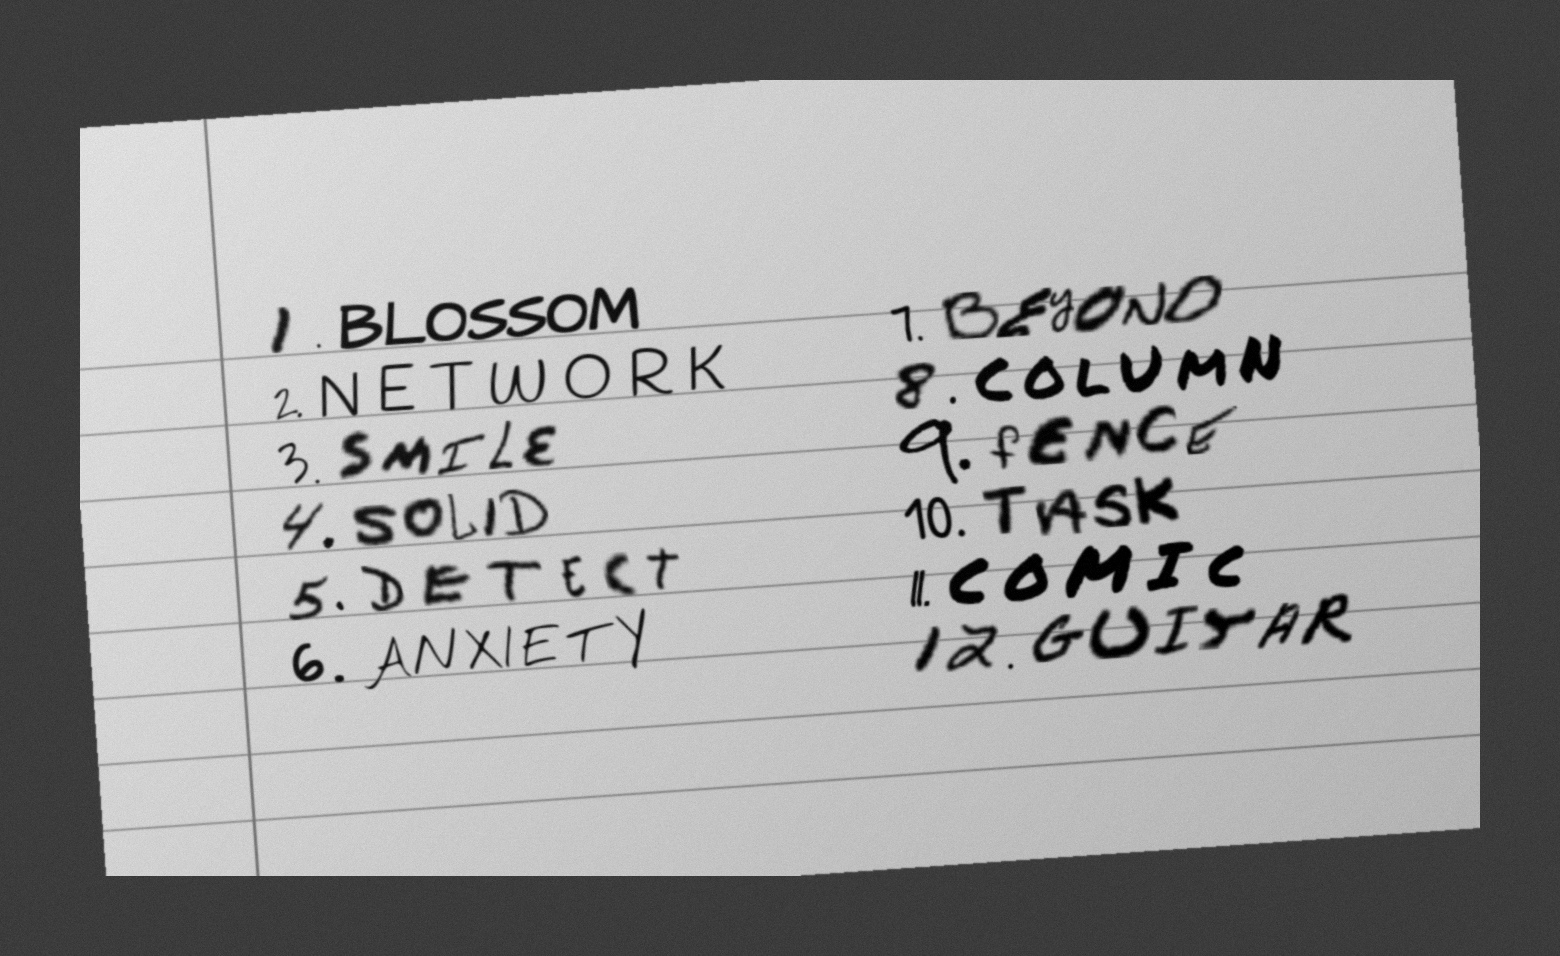
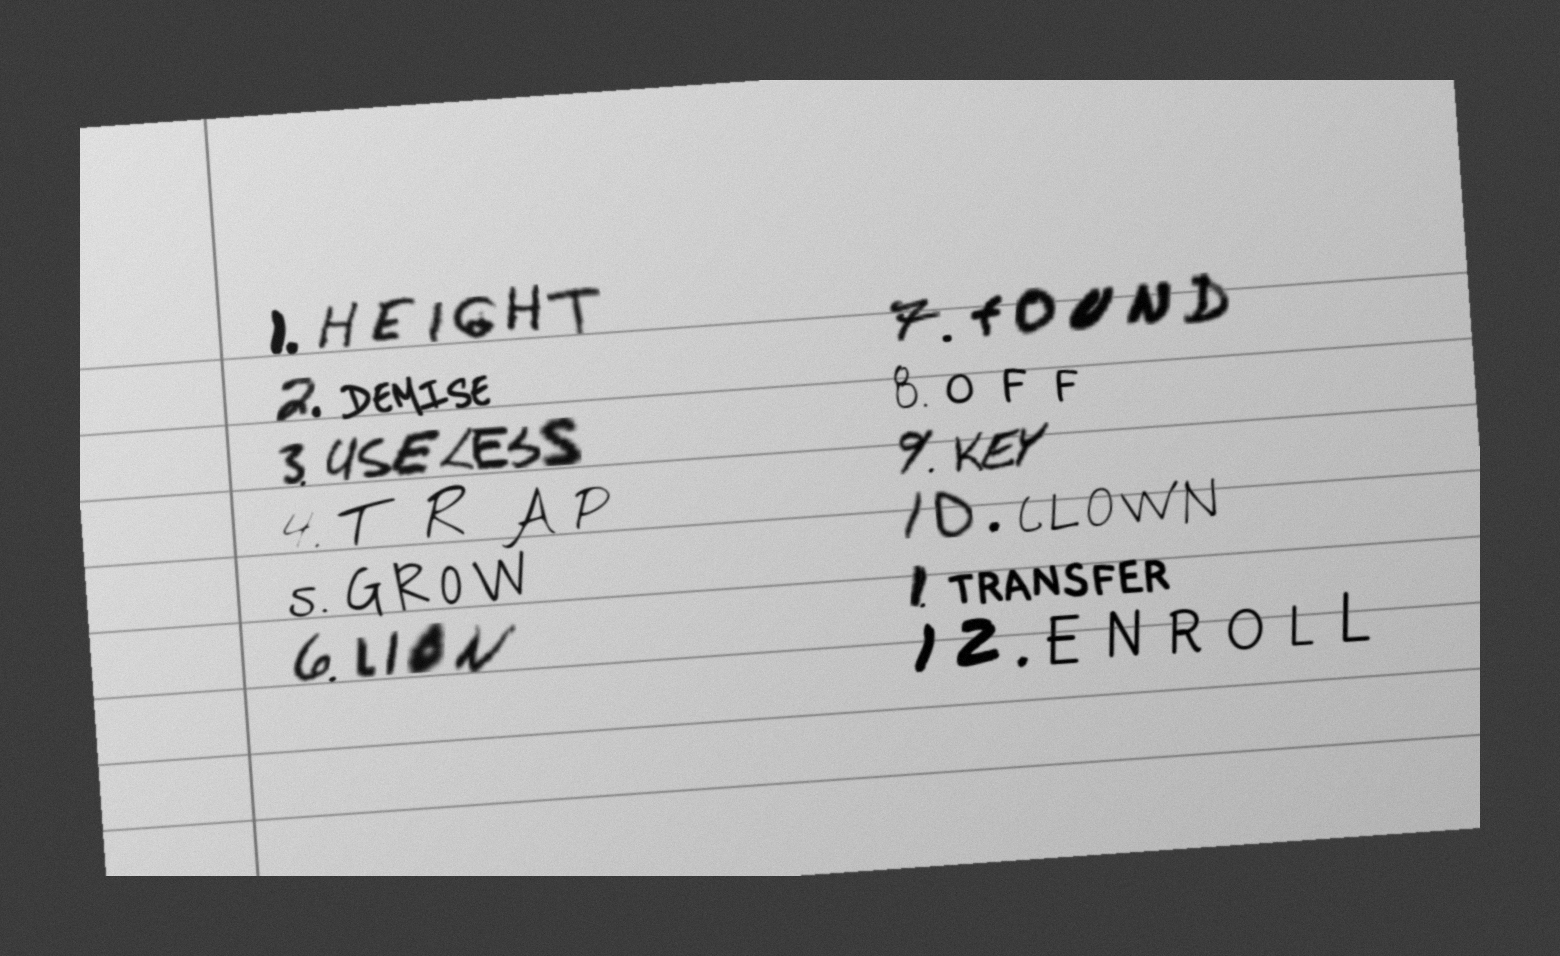
Paper backup page of the height demise seed instead of new samples
A page of the height demise words, layout seed 20 (read 12 of 12; 12 of 184
layouts are), so the hero's existing SeedQR and transaction match it and no
new samples are needed. make_page.py takes --mnemonic for it.

Changed region(s): [[0.5538, 0.273, 0.8923, 0.6977], [0.1538, 0.3033, 0.4615, 0.728]]

diff --git a/landing/index.html b/landing/index.html
@@ -399,11 +399,11 @@
           <li><span class="n">1</span><div><h3>Load a seed</h3><p>Tap Scan, then show it</p></div>
             <div class="pics">
               <button type="button" aria-pressed="false" data-src="try/samples/handwritten_page_demo.png">Paper backup</button>
-              <button type="button" aria-pressed="false" data-src="try/samples/demoseed_blossom_12word.png">SeedQR</button>
+              <button type="button" aria-pressed="false" data-src="try/samples/testseed_height_demise_standard_12word.png">SeedQR</button>
             </div></li>
           <li><span class="n">2</span><div><h3>Sign a transaction</h3><p>Tap Scan QR, check it, slide to sign</p></div>
             <div class="pics">
-              <button type="button" aria-pressed="false" data-src="try/samples/demopsbt_blossom_base64.png">Transaction</button>
+              <button type="button" aria-pressed="false" data-src="try/samples/mainpsbt_height_demise_base64.png">Transaction</button>
             </div></li>
         </ol>
         <div class="unplug">

diff --git a/firmware/sim/make_mainnet_psbt.py b/firmware/sim/make_mainnet_psbt.py
@@ -7,11 +7,6 @@ Spends a made-up 25,000-sat coin of the public test seed "height demise ..."
 about": 15,000 to its P2SH-P2WPKH and 9,857 to its P2WPKH address, fee 143,
 no change. The coin doesn't exist; nothing here is real funds.
 
-Also writes the same transaction for the made-up test seed on
-handwritten_page_demo.png ("blossom network ..."), with a SeedQR of it, so the
-landing page's hero has a paper backup, a SeedQR and a transaction of one seed:
-demopsbt_blossom_base64.png and demoseed_blossom_12word.png.
-
 Run from firmware/:
     uv run --with-requirements e2e/requirements.txt python sim/make_mainnet_psbt.py
 """
@@ -24,46 +19,33 @@ from embit.psbt import PSBT, DerivationPath
 from embit.transaction import Transaction, TransactionInput, TransactionOutput
 
 NET = NETWORKS["main"]
+OUT = "sim/samples/mainpsbt_height_demise_base64.png"
 
 
 def root(mnemonic):
     return bip32.HDKey.from_seed(bip39.mnemonic_to_seed(mnemonic))
 
 
+ours = root("height demise useless trap grow lion found off key clown transfer enroll")
 theirs = root("abandon " * 11 + "about")
 
+path = "m/84h/0h/0h/0/0"
+key = ours.derive(path).key.get_public_key()
+coin = TransactionOutput(25000, script.p2wpkh(key))
 
-def qr_png(text, out):
-    qr = qrcode.QRCode(error_correction=qrcode.constants.ERROR_CORRECT_L, box_size=3, border=4)
-    qr.add_data(text)
-    qr.make(fit=True)
-    qr.make_image().convert("1").save(out)
+p2sh = script.p2sh(script.p2wpkh(theirs.derive("m/49h/0h/0h/0/0").key.get_public_key()))
+p2wpkh = script.p2wpkh(theirs.derive("m/84h/0h/0h/0/0").key.get_public_key())
 
+tx = Transaction(version=2,
+                 vin=[TransactionInput(hashlib.sha256(b"sample coin").digest(), 0, sequence=0xFFFFFFFD)],
+                 vout=[TransactionOutput(15000, p2sh), TransactionOutput(9857, p2wpkh)])
+psbt = PSBT(tx)
+psbt.inputs[0].witness_utxo = coin
+psbt.inputs[0].bip32_derivations[key] = DerivationPath(ours.my_fingerprint, bip32.parse_path(path))
 
-def write_psbt(mnemonic, out):
-    ours = root(mnemonic)
-    path = "m/84h/0h/0h/0/0"
-    key = ours.derive(path).key.get_public_key()
-    coin = TransactionOutput(25000, script.p2wpkh(key))
-
-    p2sh = script.p2sh(script.p2wpkh(theirs.derive("m/49h/0h/0h/0/0").key.get_public_key()))
-    p2wpkh = script.p2wpkh(theirs.derive("m/84h/0h/0h/0/0").key.get_public_key())
-
-    tx = Transaction(version=2,
-                     vin=[TransactionInput(hashlib.sha256(b"sample coin").digest(), 0, sequence=0xFFFFFFFD)],
-                     vout=[TransactionOutput(15000, p2sh), TransactionOutput(9857, p2wpkh)])
-    psbt = PSBT(tx)
-    psbt.inputs[0].witness_utxo = coin
-    psbt.inputs[0].bip32_derivations[key] = DerivationPath(ours.my_fingerprint, bip32.parse_path(path))
-
-    text = psbt.to_string()
-    qr_png(text, out)
-    print(out, len(text), "chars,", p2sh.address(NET), p2wpkh.address(NET))
-
-
-write_psbt("height demise useless trap grow lion found off key clown transfer enroll",
-           "sim/samples/mainpsbt_height_demise_base64.png")
-
-demo = "blossom network smile solid detect anxiety beyond column fence task comic guitar"
-write_psbt(demo, "sim/samples/demopsbt_blossom_base64.png")
-qr_png("".join("%04d" % bip39.WORDLIST.index(w) for w in demo.split()), "sim/samples/demoseed_blossom_12word.png")
+text = psbt.to_string()
+qr = qrcode.QRCode(error_correction=qrcode.constants.ERROR_CORRECT_L, box_size=3, border=4)
+qr.add_data(text)
+qr.make(fit=True)
+qr.make_image().convert("1").save(OUT)
+print(OUT, len(text), "chars,", p2sh.address(NET), p2wpkh.address(NET))

diff --git a/firmware/handwriting/make_page.py b/firmware/handwriting/make_page.py
@@ -6,9 +6,12 @@ the training strips (EMNIST capitals, handwriting fonts), but a fixed seed.
 Run from firmware/handwriting:
   uv run --with-requirements requirements.txt python make_page.py --emnist <byclass npz> --fonts <dir> \
       --out ../sim/samples/handwritten_page.png
-Prints the words. The browser simulator (try/ and the landing page) uses a 12-word page
-the firmware reads 12 of 12:
-  ... make_page.py --emnist ... --fonts ... --words 12 --seed 3 --pad 80 --out ../sim/samples/handwritten_page_demo.png
+Prints the words. The browser simulator (the landing page) uses a 12-word page of the
+"height demise" test seed, so it signs the same transaction as the SeedQR; the firmware
+reads this layout 12 of 12 (most don't: try other --seed values after a model change):
+  ... make_page.py --emnist ... --fonts ... --words 12 --seed 20 --pad 80 \
+      --mnemonic "height demise useless trap grow lion found off key clown transfer enroll" \
+      --out ../sim/samples/handwritten_page_demo.png
 """
 import argparse
 import glob
@@ -29,6 +32,7 @@ def main():
     ap.add_argument("--seed", type=int, default=11)
     ap.add_argument("--pad", type=int, default=0, help="table around the photo, in pixels")
     ap.add_argument("--words", type=int, default=24, choices=(12, 24))
+    ap.add_argument("--mnemonic", help="write these words instead of a random seed")
     args = ap.parse_args()
     rng = np.random.default_rng(args.seed)
     d = np.load(args.emnist)
@@ -42,6 +46,9 @@ def main():
     entropy = int(bits, 2).to_bytes(n * 4 // 3, "big")
     idx.append(int(bits[-(11 - cs):] + f"{hashlib.sha256(entropy).digest()[0] >> (8 - cs):0{cs}b}", 2))
     words = [bip39_words()[i] for i in idx]
+    if args.mnemonic:   # the random words are still drawn, so --seed gives the same layout
+        words = args.mnemonic.split()
+        assert len(words) == n and all(w in bip39_words() for w in words)
     rows = n // 2
     W, H, h = 1400, (1800 if n == 24 else 240 + rows * 66 + 160), 44
     ink = np.zeros((H, W), np.float32)

diff --git a/firmware/e2e/test_written_words.py b/firmware/e2e/test_written_words.py
@@ -51,7 +51,7 @@ def test_qr_held_still_does_not_read_words(dev):
     assert "That's a transaction" in dev.text()
 
 
-DEMO_PSBT = FIRMWARE / "sim" / "samples" / "demopsbt_blossom_base64.png"
+DEMO_PSBT = FIRMWARE / "sim" / "samples" / "mainpsbt_height_demise_base64.png"
 
 
 def sign_demo_transaction(dev):
@@ -65,7 +65,8 @@ def sign_demo_transaction(dev):
 
 def test_demo_page_signs_the_demo_transaction(dev):
     """The landing page's hero offers a paper backup, a SeedQR and a
-    transaction: both seed pictures hold the seed the transaction spends from."""
+    transaction: both seed pictures hold the seed the transaction spends from.
+    Few layouts of these words read 12 of 12 (handwriting/make_page.py)."""
     dev.tap("Scan")
     dev.show_page(FIRMWARE / "sim" / "samples" / "handwritten_page_demo.png")
     dev.wait_for(lambda: dev.screen == "PAGE_FOUND", ms=5000, what="the words to be found")
@@ -81,6 +82,6 @@ def test_demo_page_signs_the_demo_transaction(dev):
 
 def test_demo_seedqr_signs_the_demo_transaction(dev):
     dev.tap("Scan")
-    dev.show(Image.open(FIRMWARE / "sim" / "samples" / "demoseed_blossom_12word.png").convert("L"))
+    dev.show(Image.open(FIRMWARE / "sim" / "samples" / "testseed_height_demise_standard_12word.png").convert("L"))
     dev.wait_for(lambda: dev.screen == "WALLET", what="the seed to load")
     sign_demo_transaction(dev)

diff --git a/firmware/sim/samples/README.md b/firmware/sim/samples/README.md
@@ -4,8 +4,6 @@ mainpsbt_height_demise_base64.png is made by sim/make_mainnet_psbt.py: the testp
 mainnet, spending a made-up coin. Never real funds.
 handwritten_page.png is synthetic (handwriting/make_page.py, from EMNIST letters and OFL
 handwriting fonts): a made-up 24-word test seed, never real funds.
-handwritten_page_demo.png is the same kind of page with 12 words (make_page.py --words 12 --seed 3
---pad 80), one the firmware reads 12 of 12; the browser simulator (try/ and the landing page)
-offers it. Also never real funds. demoseed_blossom_12word.png (a SeedQR) and
-demopsbt_blossom_base64.png (the mainnet transaction above, spending from it) hold the same seed,
-so the landing page can sign after either; sim/make_mainnet_psbt.py makes both.
+handwritten_page_demo.png is the same kind of page with the 12 words of the height demise test seed
+(make_page.py --words 12 --seed 20 --pad 80 --mnemonic ...), a layout the firmware reads 12 of 12;
+the landing page offers it next to that seed's SeedQR and mainnet transaction.

diff --git a/firmware/README.md b/firmware/README.md
@@ -499,8 +499,8 @@ camera and secure boot only show up on the real board.
 The same `src/app`, compiled to WebAssembly with Emscripten, with `src/web`
 in place of `src/sim`: the screen is a `<canvas>`, the pointer is the touch
 screen, and the camera sees a picture the page hands it (one of a few
-`sim/samples`: a handwritten page, `handwritten_page_demo.png`, 12 words that
-the firmware reads 12 of 12, a SeedQR of the same seed and a transaction for it). It runs on the website's hero device
+`sim/samples`: the test seed, a transaction for it, and a handwritten page of the same seed,
+`handwritten_page_demo.png`, which the firmware reads 12 of 12). It runs on the website's hero device
 after "Plug it in" ([`try/sim.js`](../try/sim.js)); Unplug stops it and zeroes its
 memory. Needs `emcc` (emsdk 4.0.10).
 
